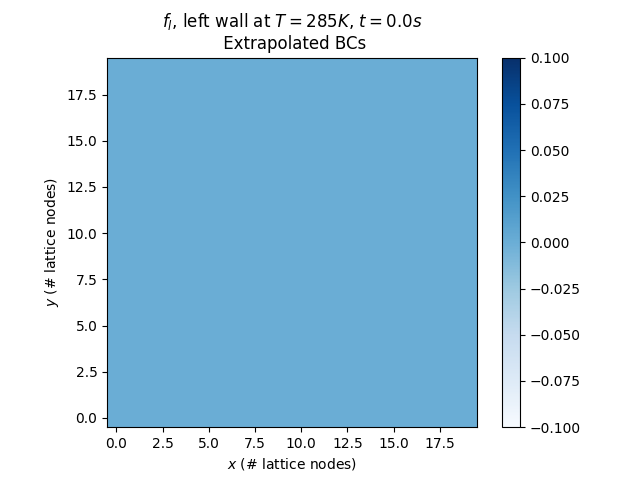
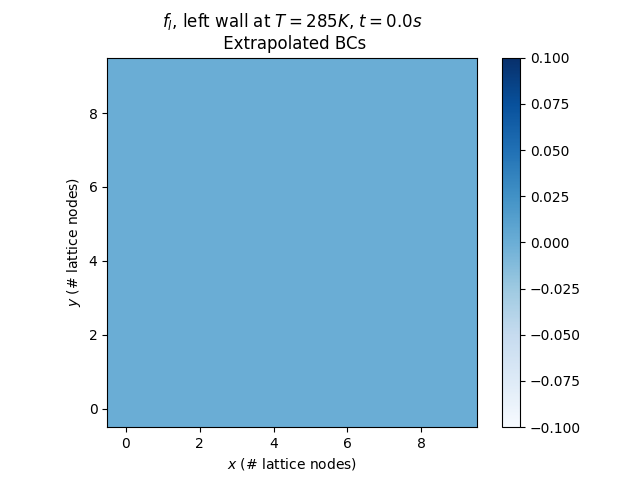
Commit 2 25maa

diff --git a/hsource_trt-fsm_sq_cav.py b/hsource_trt-fsm_sq_cav.py
@@ -23,6 +23,7 @@ beta = 210e-6       # Thermal expansion (1/K)
 Lat = 334e3         # Latent heat (J/kg)
 c_p = 4.2e3         # Specific heat (J/(kgK))
 Tm = 273.15         # Melting point (K)
+epsilon = 0.5       # Width mushy zone (K)
 h_s = c_p * Tm      # Specific enthalpy of solid (J/kg)
 h_l = h_s + Lat     # Specific enthalpy of liquid (J/kg)
 
@@ -41,7 +42,7 @@ Ma = 0.1                                            # Mach number
 Lambda = 1/4        # Magic parameter
 tau_plus = 1        # Even relaxation time
 rho0_sim = 1        # Starting simulation density
-Ny = 20             # Nodes in y-direction
+Ny = 10             # Nodes in y-direction
 
 dx_sim = 1          # simulation length
 dt_sim = 1          # simulation time
@@ -88,6 +89,7 @@ uy = np.zeros(dim)                 # Simulation velocity in y direction
 rho_sim = rho0_sim * np.ones(dim)  # Simulation density
 T_dim = np.zeros((Nx+2, Ny+2))     # Dimensionless simulation temperature
 f_l = np.zeros(dim)                # Liquid fraction
+f_l_t_1 = np.zeros(dim)            # Liquid fraction one time step before
 
 # Temperature BCS
 T_dim_H = np.ones(Ny+2) * beta * (T_H - T0)
@@ -311,39 +313,59 @@ def decompose_f_i(q, f_plus, f_minus, f_i):
     return f_plus, f_minus
 
 
-def temperature(T, alpha, Lat, c_p, beta, ux, uy, t, T_dim_H, f_l_old_tstep):
+def temperature(T, alpha, Lat, c_p, beta, ux, uy, t, T_dim_H, f_l_t_1, f_l_t_2):
     T_new = np.zeros((Nx+2, Ny+2))
-    f_l = f_l_old_tstep.copy()
+    f_l = f_l_t_1.copy()
 
-    def liq_fraction(T_new, f_l):
-        h = c_p * (T_new / beta + T0) + Lat * f_l
+    Tm_sim = beta * (Tm - T0)
+    epsilon_sim = epsilon * beta
 
-        if h < h_s:
-            f_l = 0
-        elif h > h_l:
-            f_l = 1
-        else:
-            f_l = (h - h_s) / (h_l - h_s)
+    def energy_eq(i, j, T, ux, uy, f_l_old_iter, f_l_old_time):
+        T_cell = (1 - 6 * alpha) * T[i, j] + (2 * alpha - ux[i-1, j-1]) * T[i+1, j] \
+                      + (2 * alpha + ux[i-1, j-1]) * T[i-1, j] + (2 * alpha - uy[i-1, j-1]) * T[i, j+1] \
+                      + (2 * alpha + uy[i-1, j-1]) * T[i, j-1] + (ux[i-1, j-1] / 4 + uy[i-1, j-1] / 4 - alpha / 2) * T[i+1, j+1] \
+                      + (-ux[i-1, j-1] / 4 + uy[i-1, j-1] / 4 - alpha / 2) * T[i-1, j+1] + (ux[i-1, j-1] / 4 - uy[i-1, j-1] / 4 - alpha / 2) * T[i+1, j-1] \
+                      + (-ux[i-1, j-1] / 4 - uy[i-1, j-1] / 4 - alpha / 2) * T[i-1, j-1] - beta * Lat / c_p * (f_l_old_iter - f_l_old_time)
 
-        return f_l
+        return T_cell
 
     for j in range(1, Ny+1):
         for i in range(1, Nx+1):
-            f_l_old_iter = -10
+            f_l_old_iter = f_l_t_1[i-1, j-1].copy()
+            f_l_old_time = f_l_t_2[i-1, j-1].copy()
 
-            while True:
-                T_new[i, j] = (1 - 6 * alpha) * T[i, j] + (2 * alpha - ux[i-1, j-1]) * T[i+1, j] \
-                              + (2 * alpha + ux[i-1, j-1]) * T[i-1, j] + (2 * alpha - uy[i-1, j-1]) * T[i, j+1] \
-                              + (2 * alpha + uy[i-1, j-1]) * T[i, j-1] + (ux[i-1, j-1] / 4 + uy[i-1, j-1] / 4 - alpha / 2) * T[i+1, j+1] \
-                              + (-ux[i-1, j-1] / 4 + uy[i-1, j-1] / 4 - alpha / 2) * T[i-1, j+1] + (ux[i-1, j-1] / 4 - uy[i-1, j-1] / 4 - alpha / 2) * T[i+1, j-1] \
-                              + (-ux[i-1, j-1] / 4 - uy[i-1, j-1] / 4 - alpha / 2) * T[i-1, j-1] - beta * Lat / c_p * (f_l[i-1, j-1] - f_l_old_tstep[i-1, j-1])
+            T_new[i, j] = energy_eq(i, j, T, ux, uy, f_l_old_iter, f_l_old_time)
 
-                f_l[i-1, j-1] = liq_fraction(T_new[i, j], f_l[i-1, j-1])
+            if T_new[i, j] < (Tm_sim-epsilon_sim):
+                f_l[i-1, j-1] = 0
+            elif T_new[i, j] > (Tm_sim+epsilon_sim):
+                f_l[i-1, j-1] = 1
+            else:
+                x = 0
+                while True:
+                    x += 1
+                    T_new[i, j] = energy_eq(i, j, T, ux, uy, f_l_old_iter, f_l_old_time)
 
-                if np.abs(f_l[i-1, j-1] - f_l_old_iter) < 1e-6:
-                    break
+                    # T_prime = Tm - epsilon + 2 * epsilon * f_l_t_1[i-1, j-1]
+                    T_prime = Tm - epsilon + 2 * epsilon * f_l_old_iter
+                    T_new_phys = T_new[i, j] / beta + T0
 
-                f_l_old_iter = f_l[i-1, j-1].copy()
+                    f_l[i-1, j-1] = f_l_old_iter + 0.1 * c_p / Lat * (T_new_phys - T_prime)
+
+                    # if t in [408, 409]:
+                    #     if (i == 1) and (j == 10):
+                    #         print(1, T_new)
+                    #         print(1, T_prime)
+                    #         print(1, T_new_phys)
+                    #         print(1, f_l)
+
+                    ########
+                    if np.abs(f_l[i-1, j-1] - f_l_old_iter) < 10: #e-9:
+                        # print(x)
+                        break
+
+                    f_l_old_time = f_l_t_1[i-1, j-1].copy()
+                    f_l_old_iter = f_l[i-1, j-1].copy()
 
     # Ghost nodes
     T_new[1:-1, 0] = 21/23 * T_new[1:-1, 1] + 3/23 * T_new[1:-1, 2] - 1/23 * T_new[1:-1, 3]         # Neumann extrapolation on lower boundary
@@ -352,9 +374,9 @@ def temperature(T, alpha, Lat, c_p, beta, ux, uy, t, T_dim_H, f_l_old_tstep):
     T_new[0, :] = 16/15 * T_dim_H - 3 * T_new[1, :] + T_new[2, :] - 1/5 * T_new[3, :]               # Dirichlet extrapolation on left boundary
 
     # easy_view(2, T_new / beta + T0)
-    # easy_view(3, f_l)
+    easy_view(t, f_l)
 
-    return T_new, f_l
+    return T_new, f_l, f_l_t_1
 
 
 # Buoyancy force
@@ -391,7 +413,7 @@ for t in range(Nt):
     uy[B == 1] = 0
 
     # Calculate temperature and liquid fraction
-    T_dim, f_l = temperature(T_dim, alpha_sim, Lat, c_p, beta, ux, uy, t, T_dim_H, f_l)
+    T_dim, f_l, f_l_t_1 = temperature(T_dim, alpha_sim, Lat, c_p, beta, ux, uy, t, T_dim_H, f_l, f_l_t_1)
 
     # Calculate new equilibrium distribution
     f_eq_plus, f_eq_minus = f_equilibrium(w_i, rho_sim, ux, uy, c_i, q, c_s)
@@ -406,7 +428,7 @@ for t in range(Nt):
     f_i = streaming(Nx, Ny, f_i, f_star)
     f_plus, f_minus = decompose_f_i(q, f_plus, f_minus, f_i)
 
-    if (t % 6000 == 0):
+    if (t % 2500 == 0):
         T = T_dim / beta + T0
 
         # Liquid fraction
